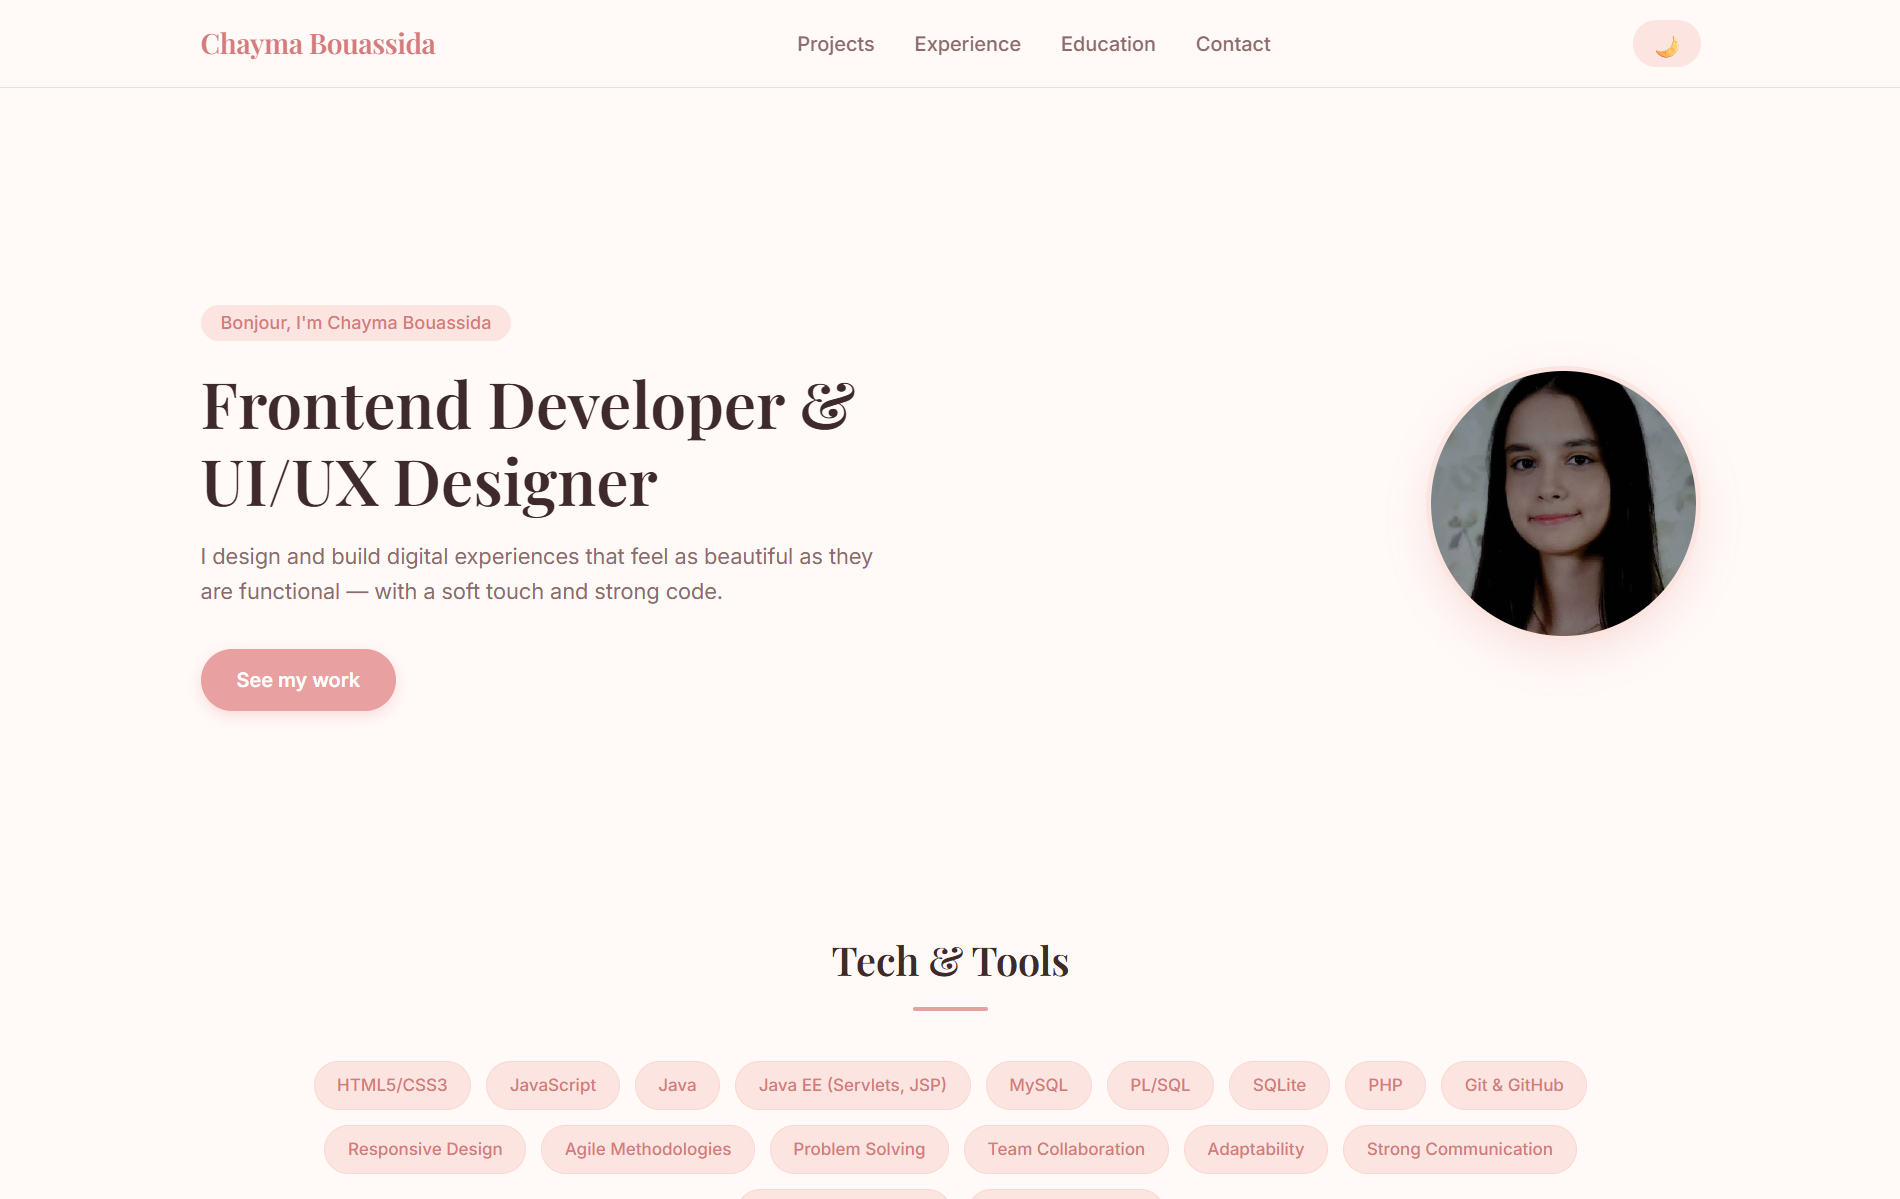
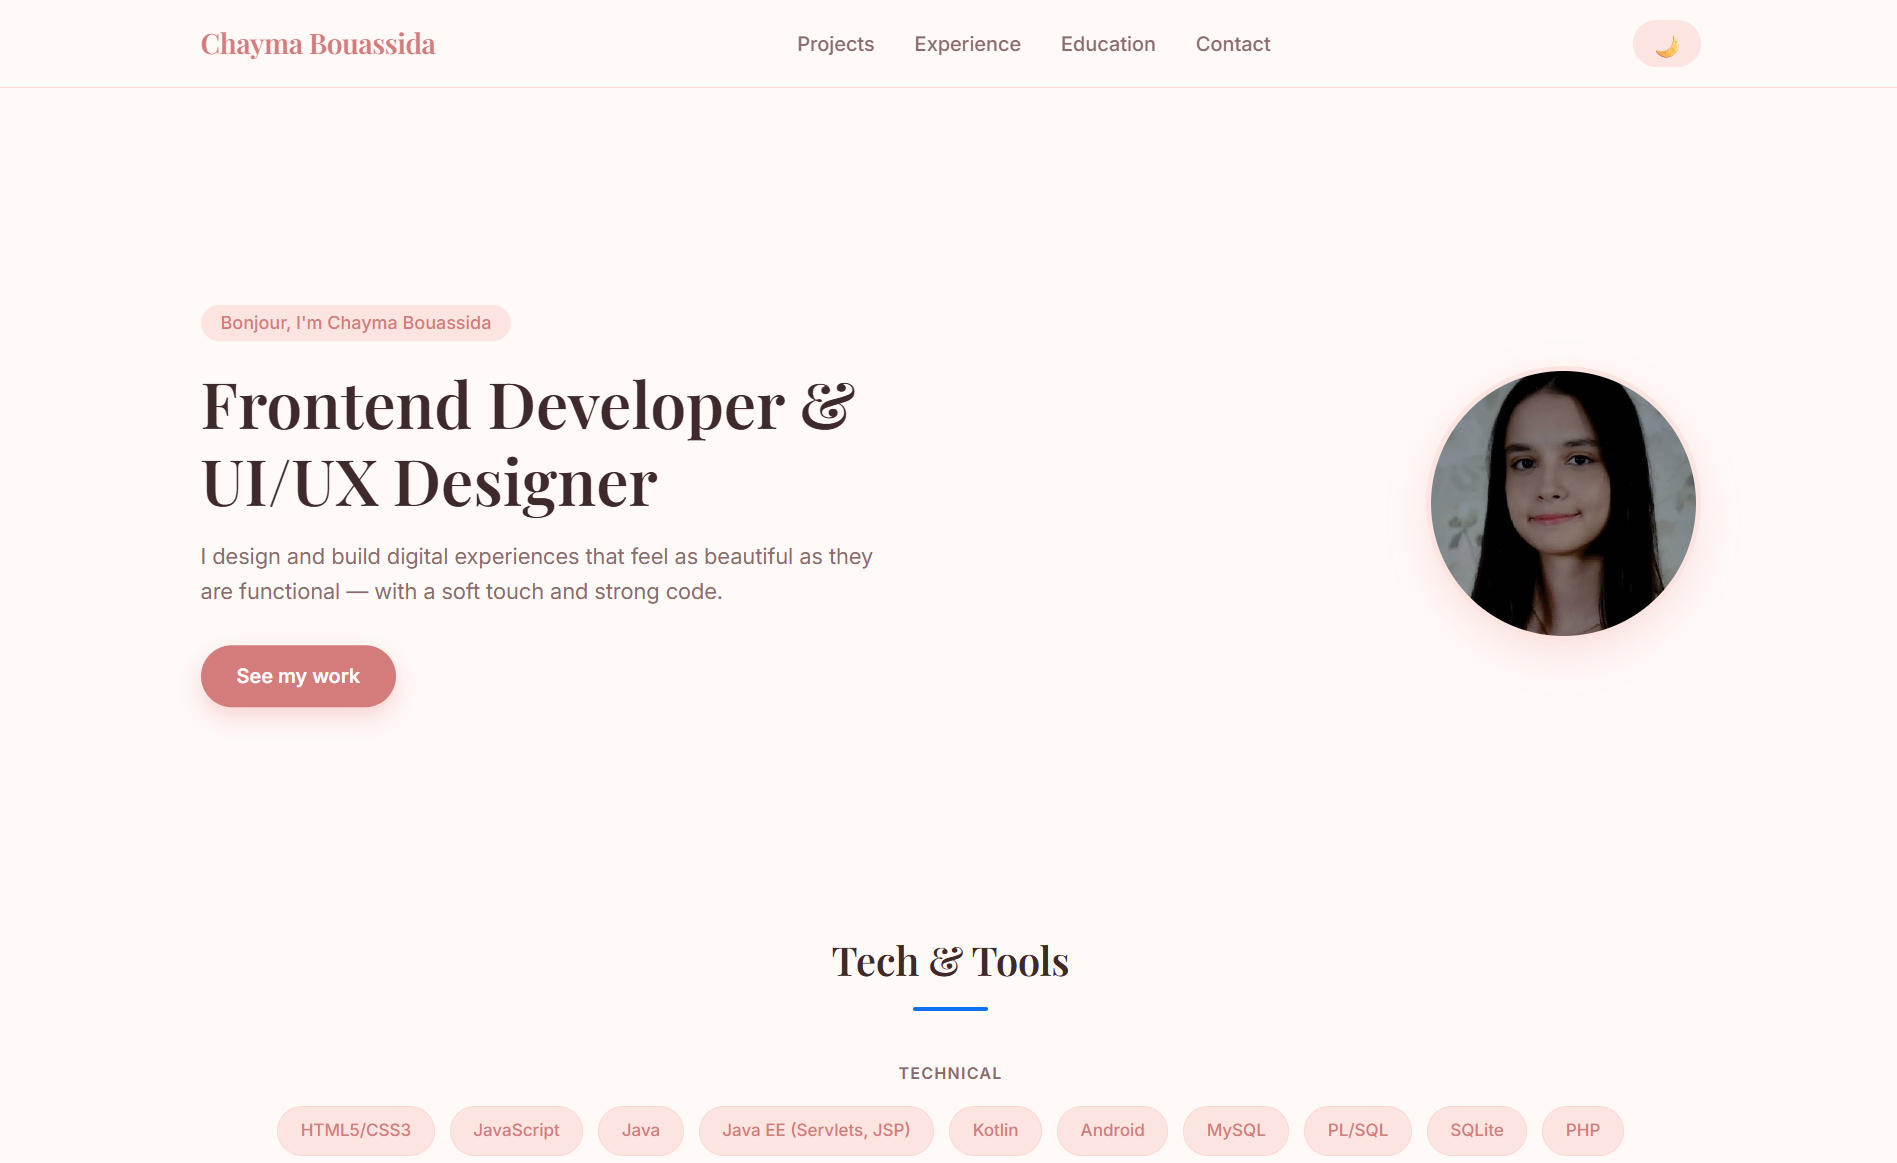
Add files via upload

diff --git a/README.md b/README.md
@@ -1,0 +1,77 @@
+# Chayma Bouassida — Portfolio
+
+Personal portfolio website showcasing projects, experience, and skills as a Frontend Developer & UI/UX Designer.
+
+🔗 **Live site:** [bouassidachayma.github.io/portfolio](https://bouassidachayma.github.io/portfolio/)
+
+## Features
+
+- Responsive single-page layout (desktop + mobile with collapsible nav)
+- Light / dark mode toggle (saved across visits via `localStorage`)
+- Scroll-reveal animations on section entry
+- Project cards with a click-to-expand detail modal (full image, description, tech stack, links)
+- Contact form powered by [Formspree](https://formspree.io) — no backend required
+- SEO basics: meta description, Open Graph tags, JSON-LD `Person` schema
+- Custom SVG favicon
+
+## Tech Stack
+
+- HTML5, CSS3 (custom properties for theming), vanilla JavaScript
+- No build tools or frameworks — everything runs from a single `index.html`
+- [Google Fonts](https://fonts.google.com) (Inter, Playfair Display)
+- [Formspree](https://formspree.io) for form submissions
+
+## Project Structure
+
+```
+├── index.html          # Main site (structure, styles, and scripts in one file)
+├── favicon.svg          # Site favicon
+├── photo personelle.jpg # Profile photo (rename to profile-photo.jpg, see below)
+├── photo1.png            # Business Casual screenshot
+├── photo2.png            # Smart Diet Planner screenshot
+├── photo3.png            # Smart Workout Builder screenshot
+├── photo4.png            # Personal Portfolio screenshot
+├── photo5.jpg             # PayAssist AI screenshot
+└── README.md
+```
+
+> **Note:** `index.html` references the profile photo as `profile-photo.jpg`. Rename your image file to match (lowercase, no spaces) before deploying, or update the `src` in the `.hero__image` section of `index.html`.
+
+## Running Locally
+
+No build step needed — just open `index.html` in a browser, or serve it locally:
+
+```bash
+# Python
+python -m http.server 8000
+
+# Node
+npx serve .
+```
+
+Then visit `http://localhost:8000`.
+
+## Deployment
+
+Any static host works. Two easy free options:
+
+**GitHub Pages**
+1. Push this folder to a GitHub repo.
+2. Go to Settings → Pages → set source to your main branch.
+3. Your site will be live at `https://<username>.github.io/<repo-name>`.
+
+**Netlify**
+1. Drag and drop this folder into [app.netlify.com/drop](https://app.netlify.com/drop).
+2. Get an instant live URL.
+
+## Contact Form Setup
+
+The contact form submits to Formspree. It's already connected to this project's Formspree endpoint. If you ever need to reconnect it to a different form:
+
+1. Sign up at [formspree.io](https://formspree.io) and create a new form.
+2. Copy the endpoint URL (`https://formspree.io/f/xxxxxxxx`).
+3. Replace the `action` attribute on the `<form id="contactForm">` element in `index.html`.
+
+## License
+
+© Chayma Bouassida. All rights reserved.
